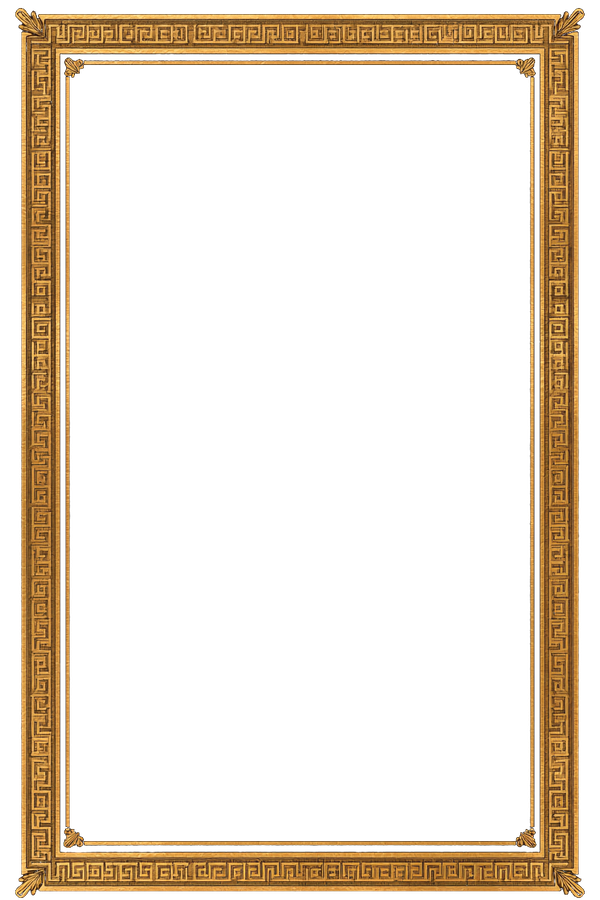
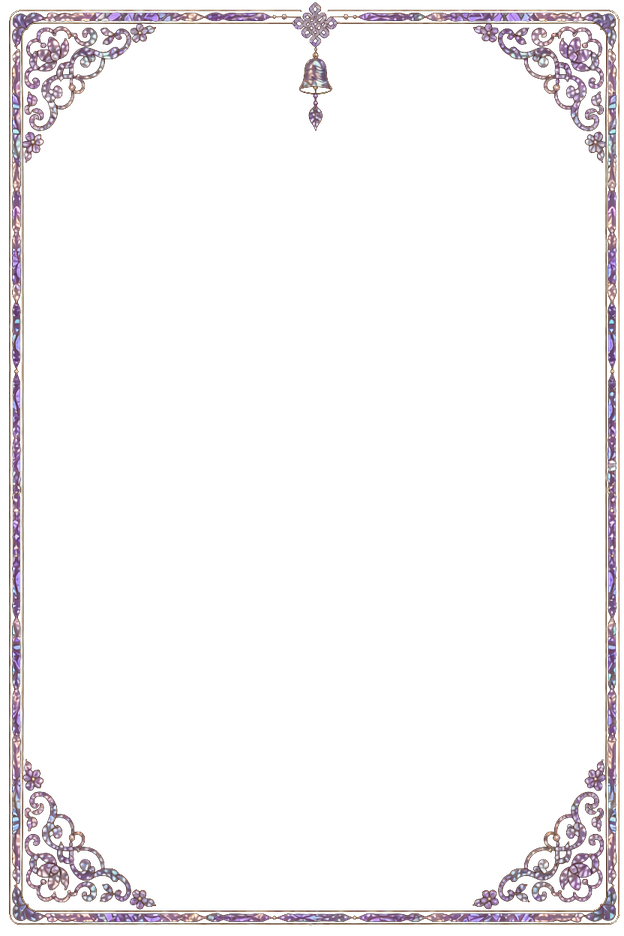
feat(만신): 확정 카드뒷면·테두리 이미지 적용 + 카드 크기 1.3배 확대
- 지피티 확정본 카드백(back/back_sm)·테두리(frame, 검정→투명 펀칭) 교체
- 인트로 덱 120→156px, 셔플·부채꼴 카드 92→120px (부채 각도 7→6도로 375px 잘림 방지)
- 공개 화면: 요약 패 flex 반응형(최대 203px), 신령패 대형 카드 264→343px + 고해상 카드백(BACK_LG)

Changed region(s): [[0.0, 0.0, 1.0, 1.0]]

diff --git a/src/components/test/ManshinOracleTest.tsx b/src/components/test/ManshinOracleTest.tsx
@@ -35,6 +35,8 @@ type PickStep = 0 | 1 | 2; // 0=신령 1=풍습 2=엽전
 type SectionKey = 'total' | keyof ManshinFortunes;
 
 const BACK_SM = "url('/manshin/back_sm.png')";
+/** 공개 화면 대형 신령패 전용 고해상 카드백 (작은 카드들은 소형본으로 성능 우선) */
+const BACK_LG = "url('/manshin/back.png')";
 
 /** 공용 카드 프레임 오버레이 (중앙 투명 펀칭 PNG — 60장 물리 동일 보장) */
 const FRAME_SRC = '/manshin/frame.png';
@@ -157,7 +159,7 @@ function SummaryPatCard({ label, card, imageSrc, large }: { label: string; card:
   const color = MANSHIN_GROUP_COLORS[card.group];
   const src = imageSrc ?? COIN_IMAGES[card.id]; // 엽전패는 확정 일러스트 자동 매칭
   return (
-    <div className={large ? 'w-[176px]' : 'w-[156px]'}>
+    <div className={large ? 'w-[229px]' : 'w-full max-w-[203px]'}>
       <div
         className="relative aspect-[2/3] rounded-xl overflow-hidden"
         style={{ boxShadow: `0 6px 24px ${color}22` }}
@@ -395,7 +397,7 @@ export function ManshinOracleTest() {
           >
             <div className="flex justify-center py-4">
               <motion.div
-                className="relative w-[120px] aspect-[2/3]"
+                className="relative w-[156px] aspect-[2/3]"
                 style={{ willChange: 'transform' }}
                 animate={{ y: [0, -8, 0] }}
                 transition={{ duration: 3.4, repeat: Infinity, ease: 'easeInOut' }}
@@ -450,11 +452,11 @@ export function ManshinOracleTest() {
             animate={{ opacity: 1 }}
             exit={{ opacity: 0 }}
             transition={{ duration: 0.3 }}
-            className="relative h-[320px] flex items-center justify-center"
+            className="relative h-[400px] flex items-center justify-center"
           >
             {/* 중심에서 번지는 기운 */}
             <motion.div
-              className="absolute w-[220px] h-[220px] rounded-full pointer-events-none"
+              className="absolute w-[280px] h-[280px] rounded-full pointer-events-none"
               style={{ background: 'radial-gradient(circle, rgba(201,166,255,0.22), transparent 70%)', willChange: 'transform, opacity' }}
               animate={{ scale: [0.7, 1.15, 0.75], opacity: [0.3, 0.85, 0.4] }}
               transition={{ duration: 2.4, ease: 'easeInOut' }}
@@ -470,7 +472,7 @@ export function ManshinOracleTest() {
                 const t = k / (STEPS - 1);
                 const bloom = Math.sin(Math.PI * t); // 0 → 1 → 0
                 const ang = phase0 + Math.PI * 3.2 * t; // 약 1.6바퀴 공전
-                const r = 84 * bloom;
+                const r = 104 * bloom;
                 xs.push(Math.cos(ang) * r);
                 ys.push(Math.sin(ang) * r * 0.58); // 타원 궤도 — 살짝 눕힌 3D 느낌
                 rots.push(Math.sin(ang) * 10 * bloom); // 궤도 따라 기우는 카드
@@ -478,7 +480,7 @@ export function ManshinOracleTest() {
               return (
                 <motion.div
                   key={i}
-                  className="absolute w-[92px] aspect-[2/3] rounded-lg border border-[rgba(201,166,255,0.35)]"
+                  className="absolute w-[120px] aspect-[2/3] rounded-lg border border-[rgba(201,166,255,0.35)]"
                   style={{
                     backgroundImage: BACK_SM,
                     backgroundSize: 'cover',
@@ -511,7 +513,7 @@ export function ManshinOracleTest() {
             animate={{ opacity: 1 }}
             exit={{ opacity: 0 }}
             className="flex flex-col"
-            style={{ height: 'calc(100dvh - 252px)', minHeight: 470 }}
+            style={{ height: 'calc(100dvh - 252px)', minHeight: 520 }}
           >
             {/* 진행 표시 — 연결선으로 이어진 세 패 여정 */}
             <div className="flex items-center justify-center mb-4">
@@ -616,11 +618,12 @@ export function ManshinOracleTest() {
                 animate={{ opacity: 1 }}
                 exit={{ opacity: 0, scale: 0.96 }}
                 transition={{ duration: 0.3 }}
-                className="relative flex-1 min-h-[270px]"
+                className="relative flex-1 min-h-[330px]"
               >
                 {pools[STEP_META[step].key].slice(0, STEP_META[step].fan).map((_, idx) => {
                   const fanCount = Math.min(pools[STEP_META[step].key].length, STEP_META[step].fan);
-                  const stepDeg = fanCount > 8 ? 7 : 10;
+                  // 1.3배 카드에 맞춰 각도 축소 — 375px 폭에서도 부채 끝이 잘리지 않는 값
+                  const stepDeg = fanCount > 8 ? 6 : 9;
                   const angle = (idx - (fanCount - 1) / 2) * stepDeg;
                   const isPicked = pendingIdx === idx;
                   return (
@@ -642,7 +645,7 @@ export function ManshinOracleTest() {
                       whileHover={{ y: isPicked ? -26 : -12 }}
                       whileTap={{ scale: 1.02 }}
                       onClick={() => pickCard(idx)}
-                      className={`absolute left-1/2 bottom-10 w-[92px] aspect-[2/3] -ml-[46px] rounded-lg border ${
+                      className={`absolute left-1/2 bottom-10 w-[120px] aspect-[2/3] -ml-[60px] rounded-lg border ${
                         isPicked
                           ? 'border-cta shadow-[0_0_18px_rgba(232,164,144,0.55)]'
                           : 'border-[rgba(201,166,255,0.35)]'
@@ -679,6 +682,7 @@ export function ManshinOracleTest() {
               {(['custom', 'coin'] as const).map((key, i) => (
                 <motion.div
                   key={key}
+                  className="flex-1 max-w-[203px]"
                   initial={{ rotateY: 100, opacity: 0 }}
                   animate={{ rotateY: 0, opacity: 1 }}
                   transition={{ delay: i * 0.25, duration: 0.55, ease: [0.16, 1, 0.3, 1] }}
@@ -704,7 +708,7 @@ export function ManshinOracleTest() {
               >
                 <Sparkles color={deityColor} />
                 <motion.div
-                  className="absolute w-[180px] h-[180px] rounded-full pointer-events-none"
+                  className="absolute w-[230px] h-[230px] rounded-full pointer-events-none"
                   style={{ background: `radial-gradient(circle, ${deityColor}2e, transparent 70%)`, willChange: 'transform, opacity' }}
                   animate={{ scale: [1, 1.22, 1], opacity: [0.6, 1, 0.6] }}
                   transition={{ duration: 4.2, repeat: Infinity, ease: 'easeInOut' }}
@@ -718,10 +722,11 @@ export function ManshinOracleTest() {
                   animate={{ opacity: 1, rotateY: 0 }}
                   transition={{ duration: 0.5, ease: [0.16, 1, 0.3, 1] }}
                   style={{ transformPerspective: 700 }}
-                  className="relative w-[264px] aspect-[2/3] rounded-xl overflow-hidden mb-4"
+                  className="relative w-[min(343px,80vw)] aspect-[2/3] rounded-xl overflow-hidden mb-4"
                 >
-                  {/* 카드백 플레이스홀더 — 자체 테두리가 있어 프레임 오버레이 미적용 (일러스트 교체 시 FRAME_SRC 적용) */}
-                  <div className="absolute inset-0" style={{ backgroundImage: BACK_SM, backgroundSize: 'cover', backgroundPosition: 'center' }} />
+                  {/* 카드백 플레이스홀더 — 자체 테두리가 있어 프레임 오버레이 미적용 (일러스트 교체 시 FRAME_SRC 적용)
+                      대형 카드라 고해상본(BACK_LG) 사용 — 소형본은 이 크기에서 뭉개짐 */}
+                  <div className="absolute inset-0" style={{ backgroundImage: BACK_LG, backgroundSize: 'cover', backgroundPosition: 'center' }} />
                   <div className="absolute inset-0" style={{ background: `radial-gradient(circle at 50% 22%, ${deityColor}30, rgba(10,6,20,0.72))` }} />
                   <div className="absolute top-3 inset-x-0 flex justify-center z-30">
                     <span